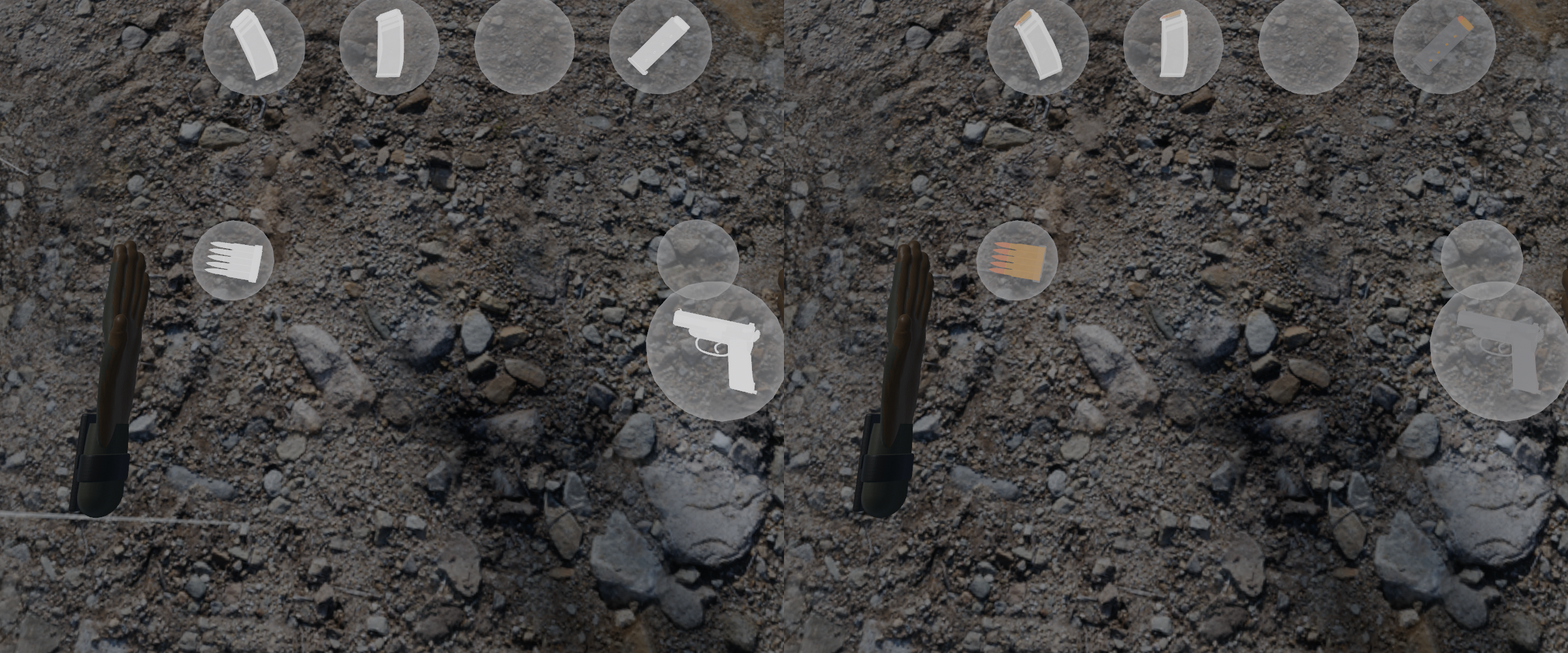
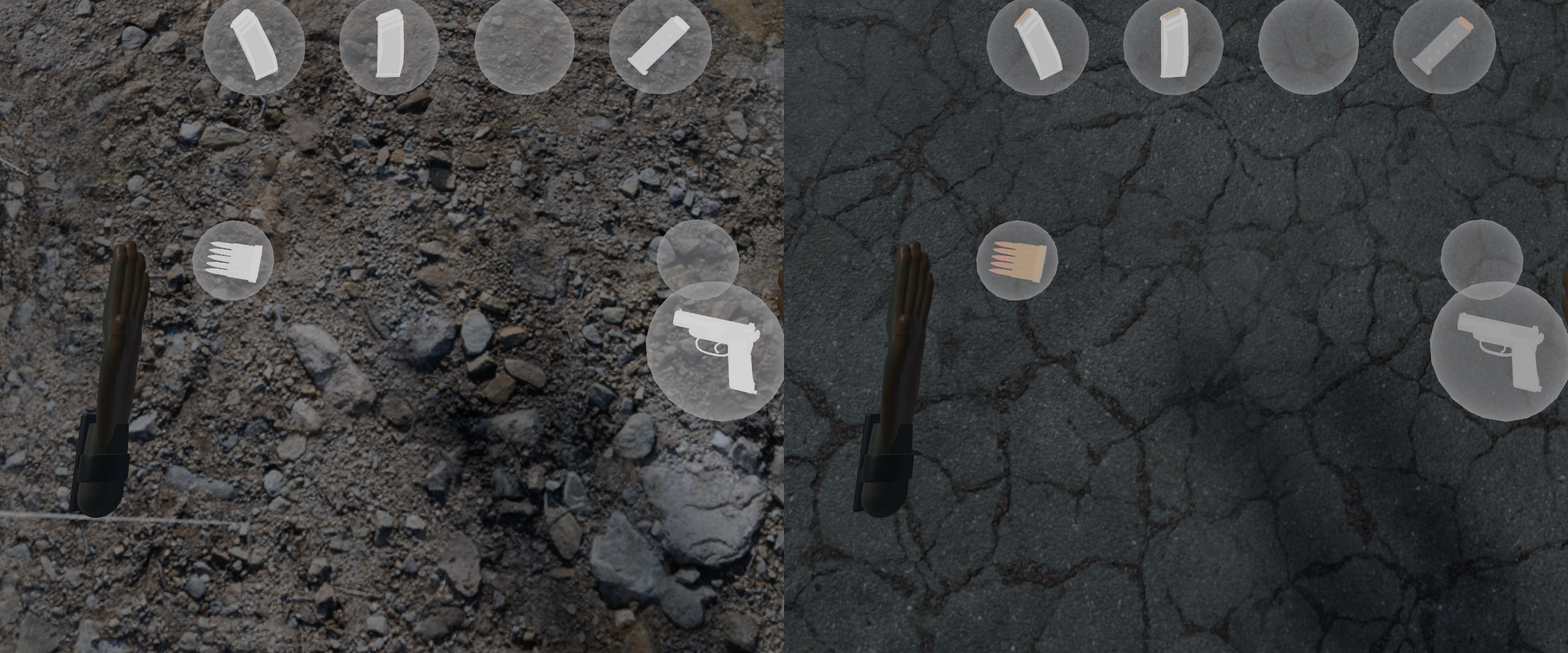
Slot copies: a dark part lifted further, so the PM reads in its sphere
The coordinator's follow-up on 8e3c2c7: the PM in its holster sphere,
grey, nearly vanished into the frosted sphere. ICON_FLOOR 0.18 -> 0.4:
a blued pistol is a light steel grey, its hue kept; brass and other
light colours stay their own. The after shot is in Marrow Creek: the
yard now holds the spheres back till the range (Onboarding's
PocketHints).

Claude-Session: https://claude.ai/code/session_01DtdvKhReJzNvkQesvuCiZy

Changed region(s): [[0.5, 0.0, 1.0, 1.0]]

diff --git a/src/render/pockets.rs b/src/render/pockets.rs
@@ -243,7 +243,7 @@ fn build_icon(
 /// the shader's dimming): a blued pistol in its own colour was gone
 /// against the ground in its sphere. Darker is lifted with grey, its hue
 /// kept.
-pub const ICON_FLOOR: f32 = 0.18;
+pub const ICON_FLOOR: f32 = 0.4;
 
 /// A part's colour as its icon draws it: its own, lifted to
 /// [`ICON_FLOOR`] if darker.
@@ -402,7 +402,7 @@ mod tests {
     /// to the floor, its hue kept.
     #[test]
     fn a_dark_part_is_lifted_a_light_one_kept() {
-        let brass = LinearRgba::rgb(0.5, 0.3, 0.08);
+        let brass = LinearRgba::rgb(0.75, 0.5, 0.15);
         assert_eq!(icon_tint(brass), brass);
         let blued = icon_tint(LinearRgba::rgb(0.01, 0.012, 0.02));
         let lum = 0.2126 * blued.red + 0.7152 * blued.green + 0.0722 * blued.blue;
